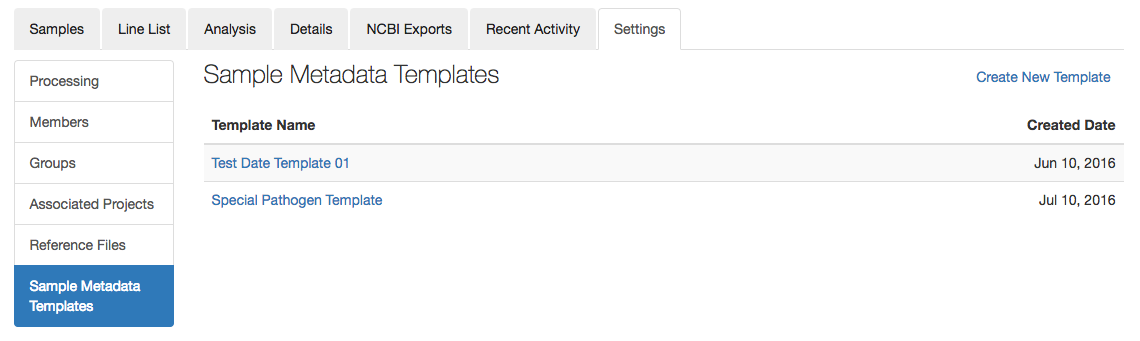
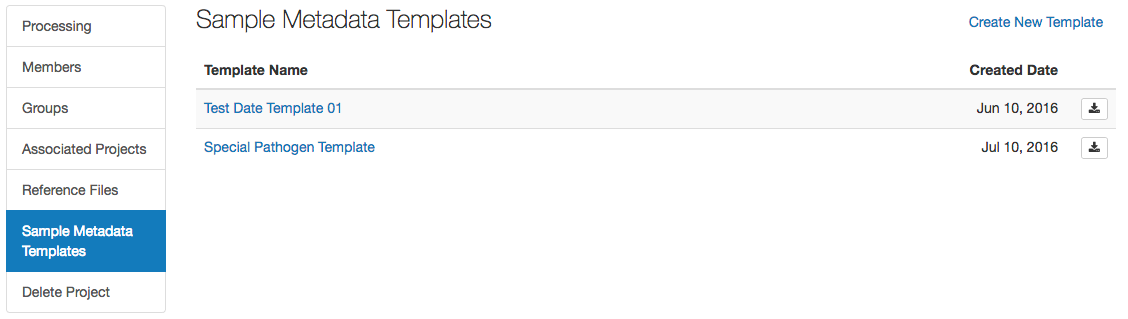
Updated documentation.

diff --git a/doc/user/user/sample-metadata-templates/index.md b/doc/user/user/sample-metadata-templates/index.md
@@ -12,7 +12,7 @@ Samples metadata templates can be created, modified, or deleted within project s
 
 ![Link to metadata templates](images/sample_metadata_template_settings_link.png)
 
-### Creating a metadata template
+## Creating a metadata template
 
 To create a metadata template, click on the`Create New Template` link in the top right corner of the page.
 
@@ -60,3 +60,13 @@ From the Sample Metadata Template page within project settings, click on the nam
 Clicking on the delete template button will open a warning about deleting the template.  Clicking the `Delete this template` button in the modal will delete this template **this cannot be undone**.
 
 ![Delete Template](images/delete_template_btn.png)
+
+## Downloading metadata templates
+
+An existing template can be downloaded direction on the Settings page by clicking on the <i class="fa fa-download fa-fw"></i> button on the right side of the table row.  This will download an excel file containing a header row with all the metadata fields in the template.
+
+![Download template](images/download_buttons.png)
+
+Templates can also be downloaded on their individual details page by clicking on the <i class="fa fa-download fa-fw"></i> button at the top of the page.
+
+![Download template](images/download_button_page.png)

diff --git a/CHANGELOG.md b/CHANGELOG.md
@@ -6,6 +6,7 @@ Changes
 * [Developer]: Removed old javascript build configuration files.
 * [Developer]: Cleaned up javascript imports (removed all `require` statements).
 * [UI]: Removed phylocanvas context menu from analysis > details page.
+* [UI]: Added buttons on the project settings page, and metadata template page to download an excel template.
 
 0.16.0 to 0.17.0
 ----------------
